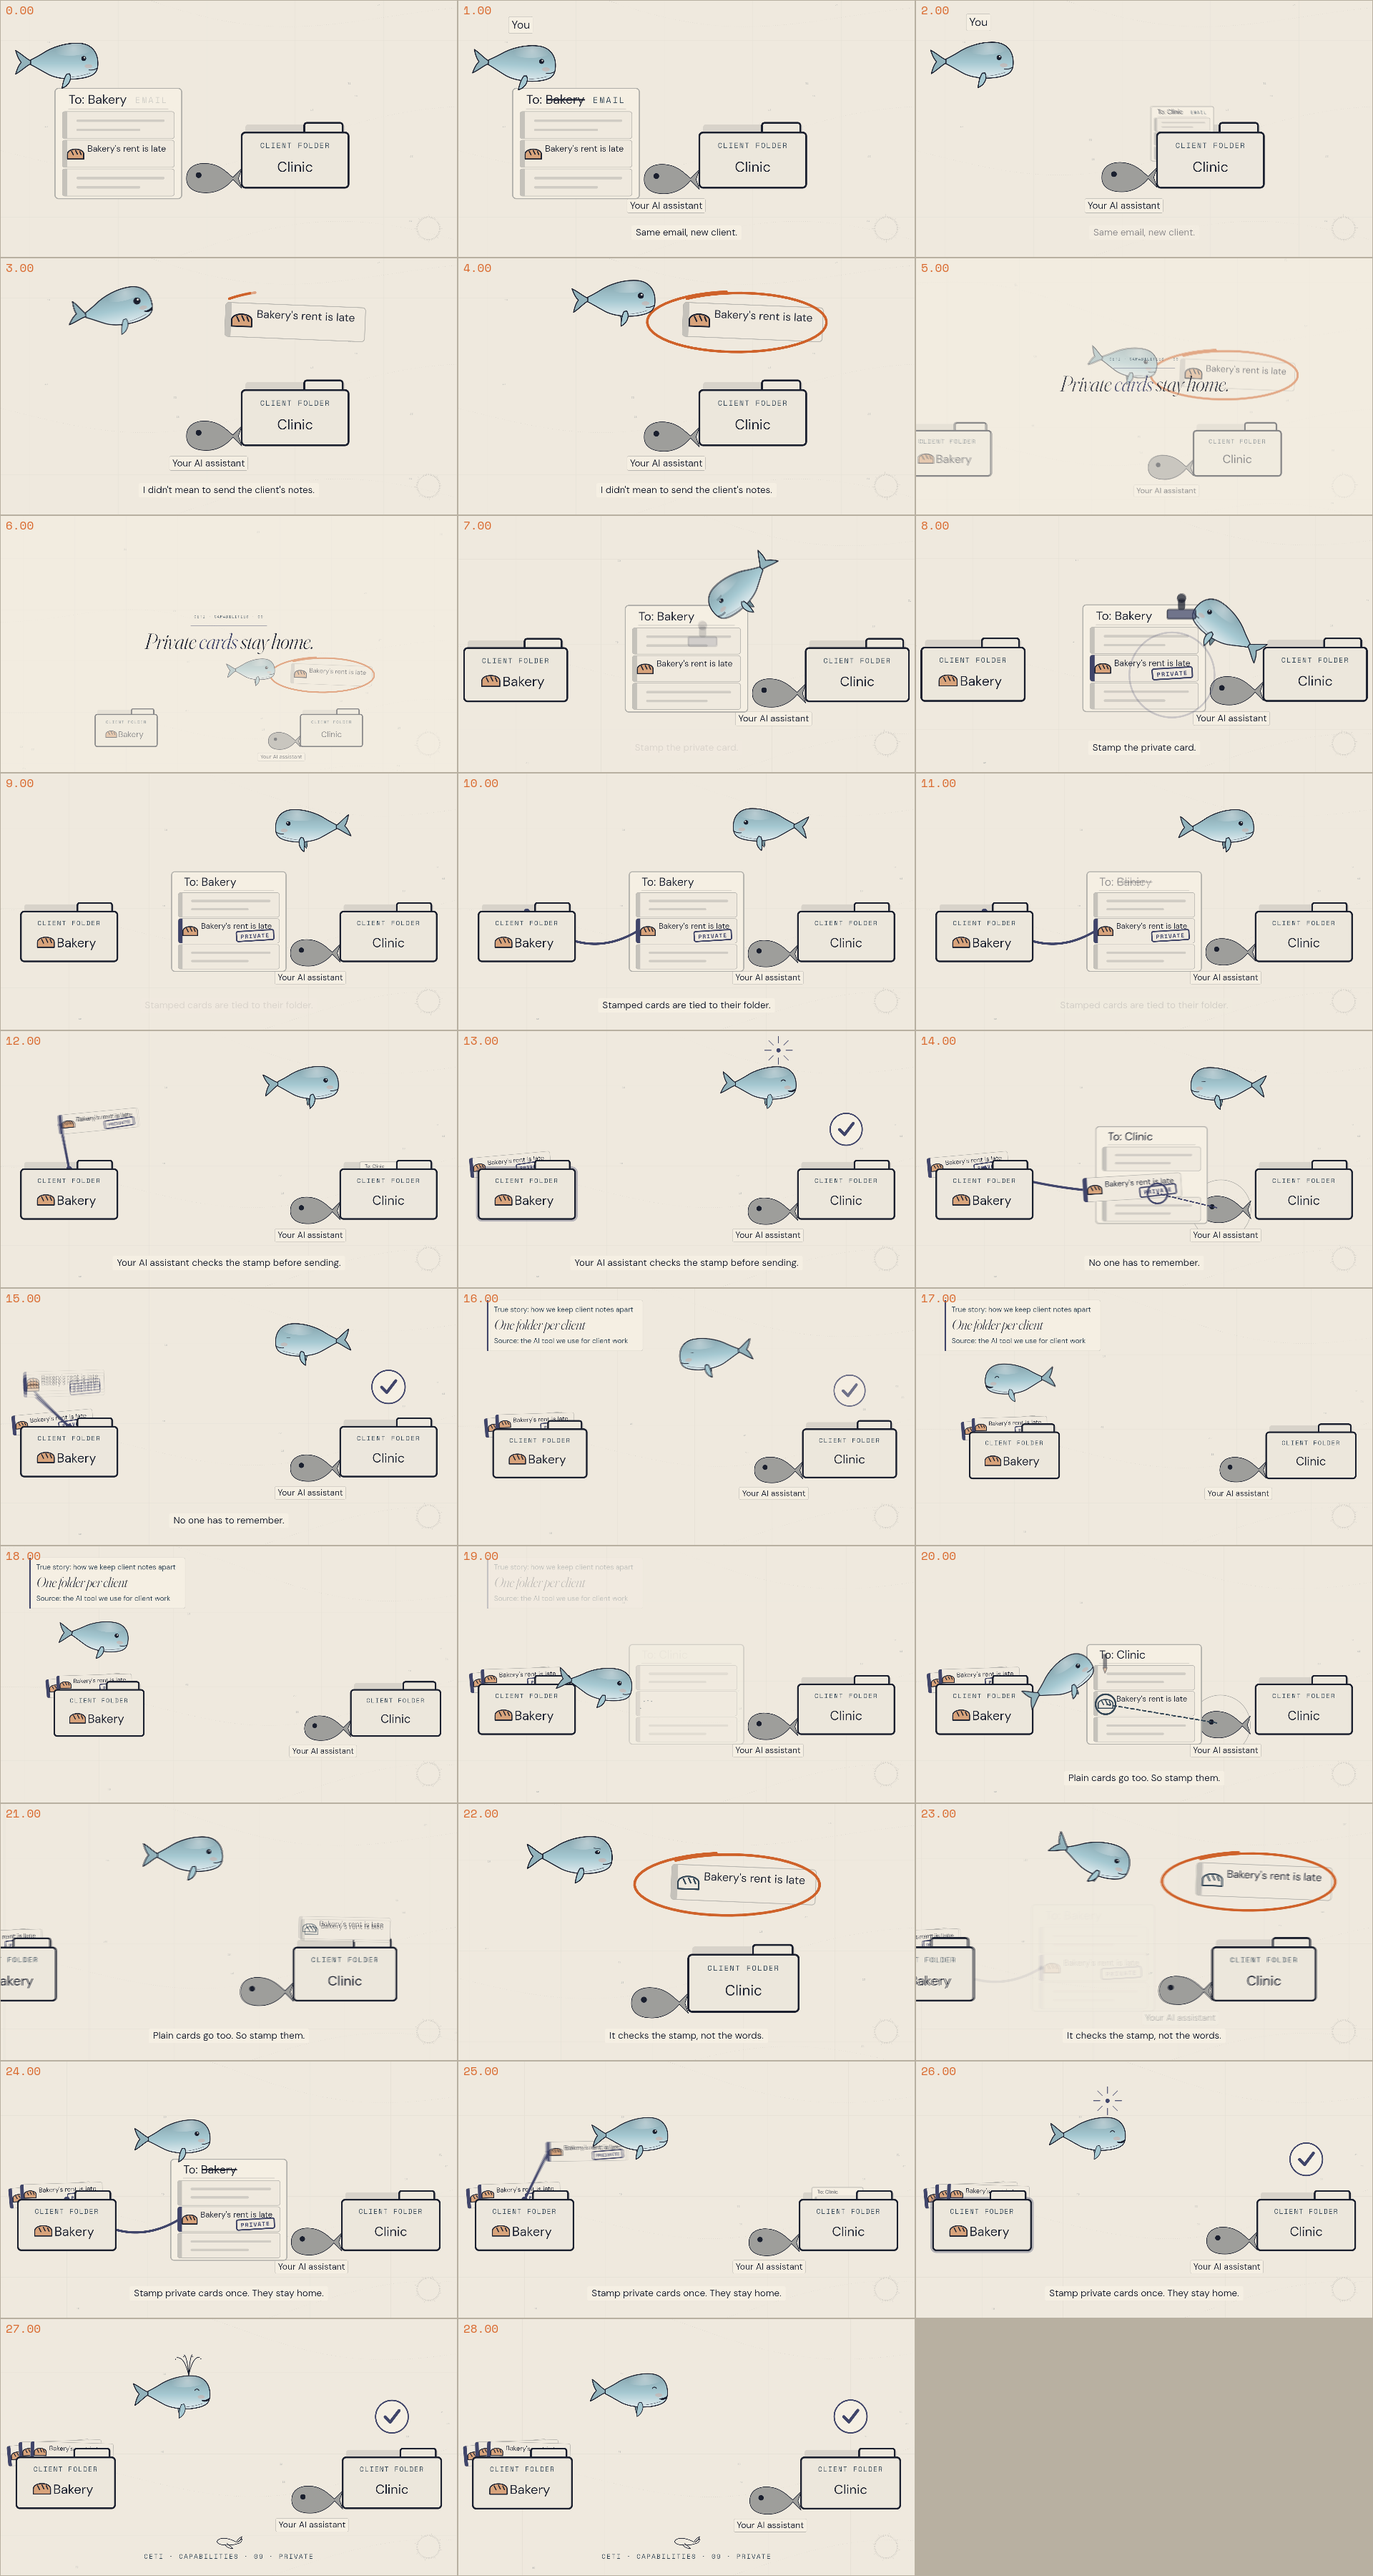
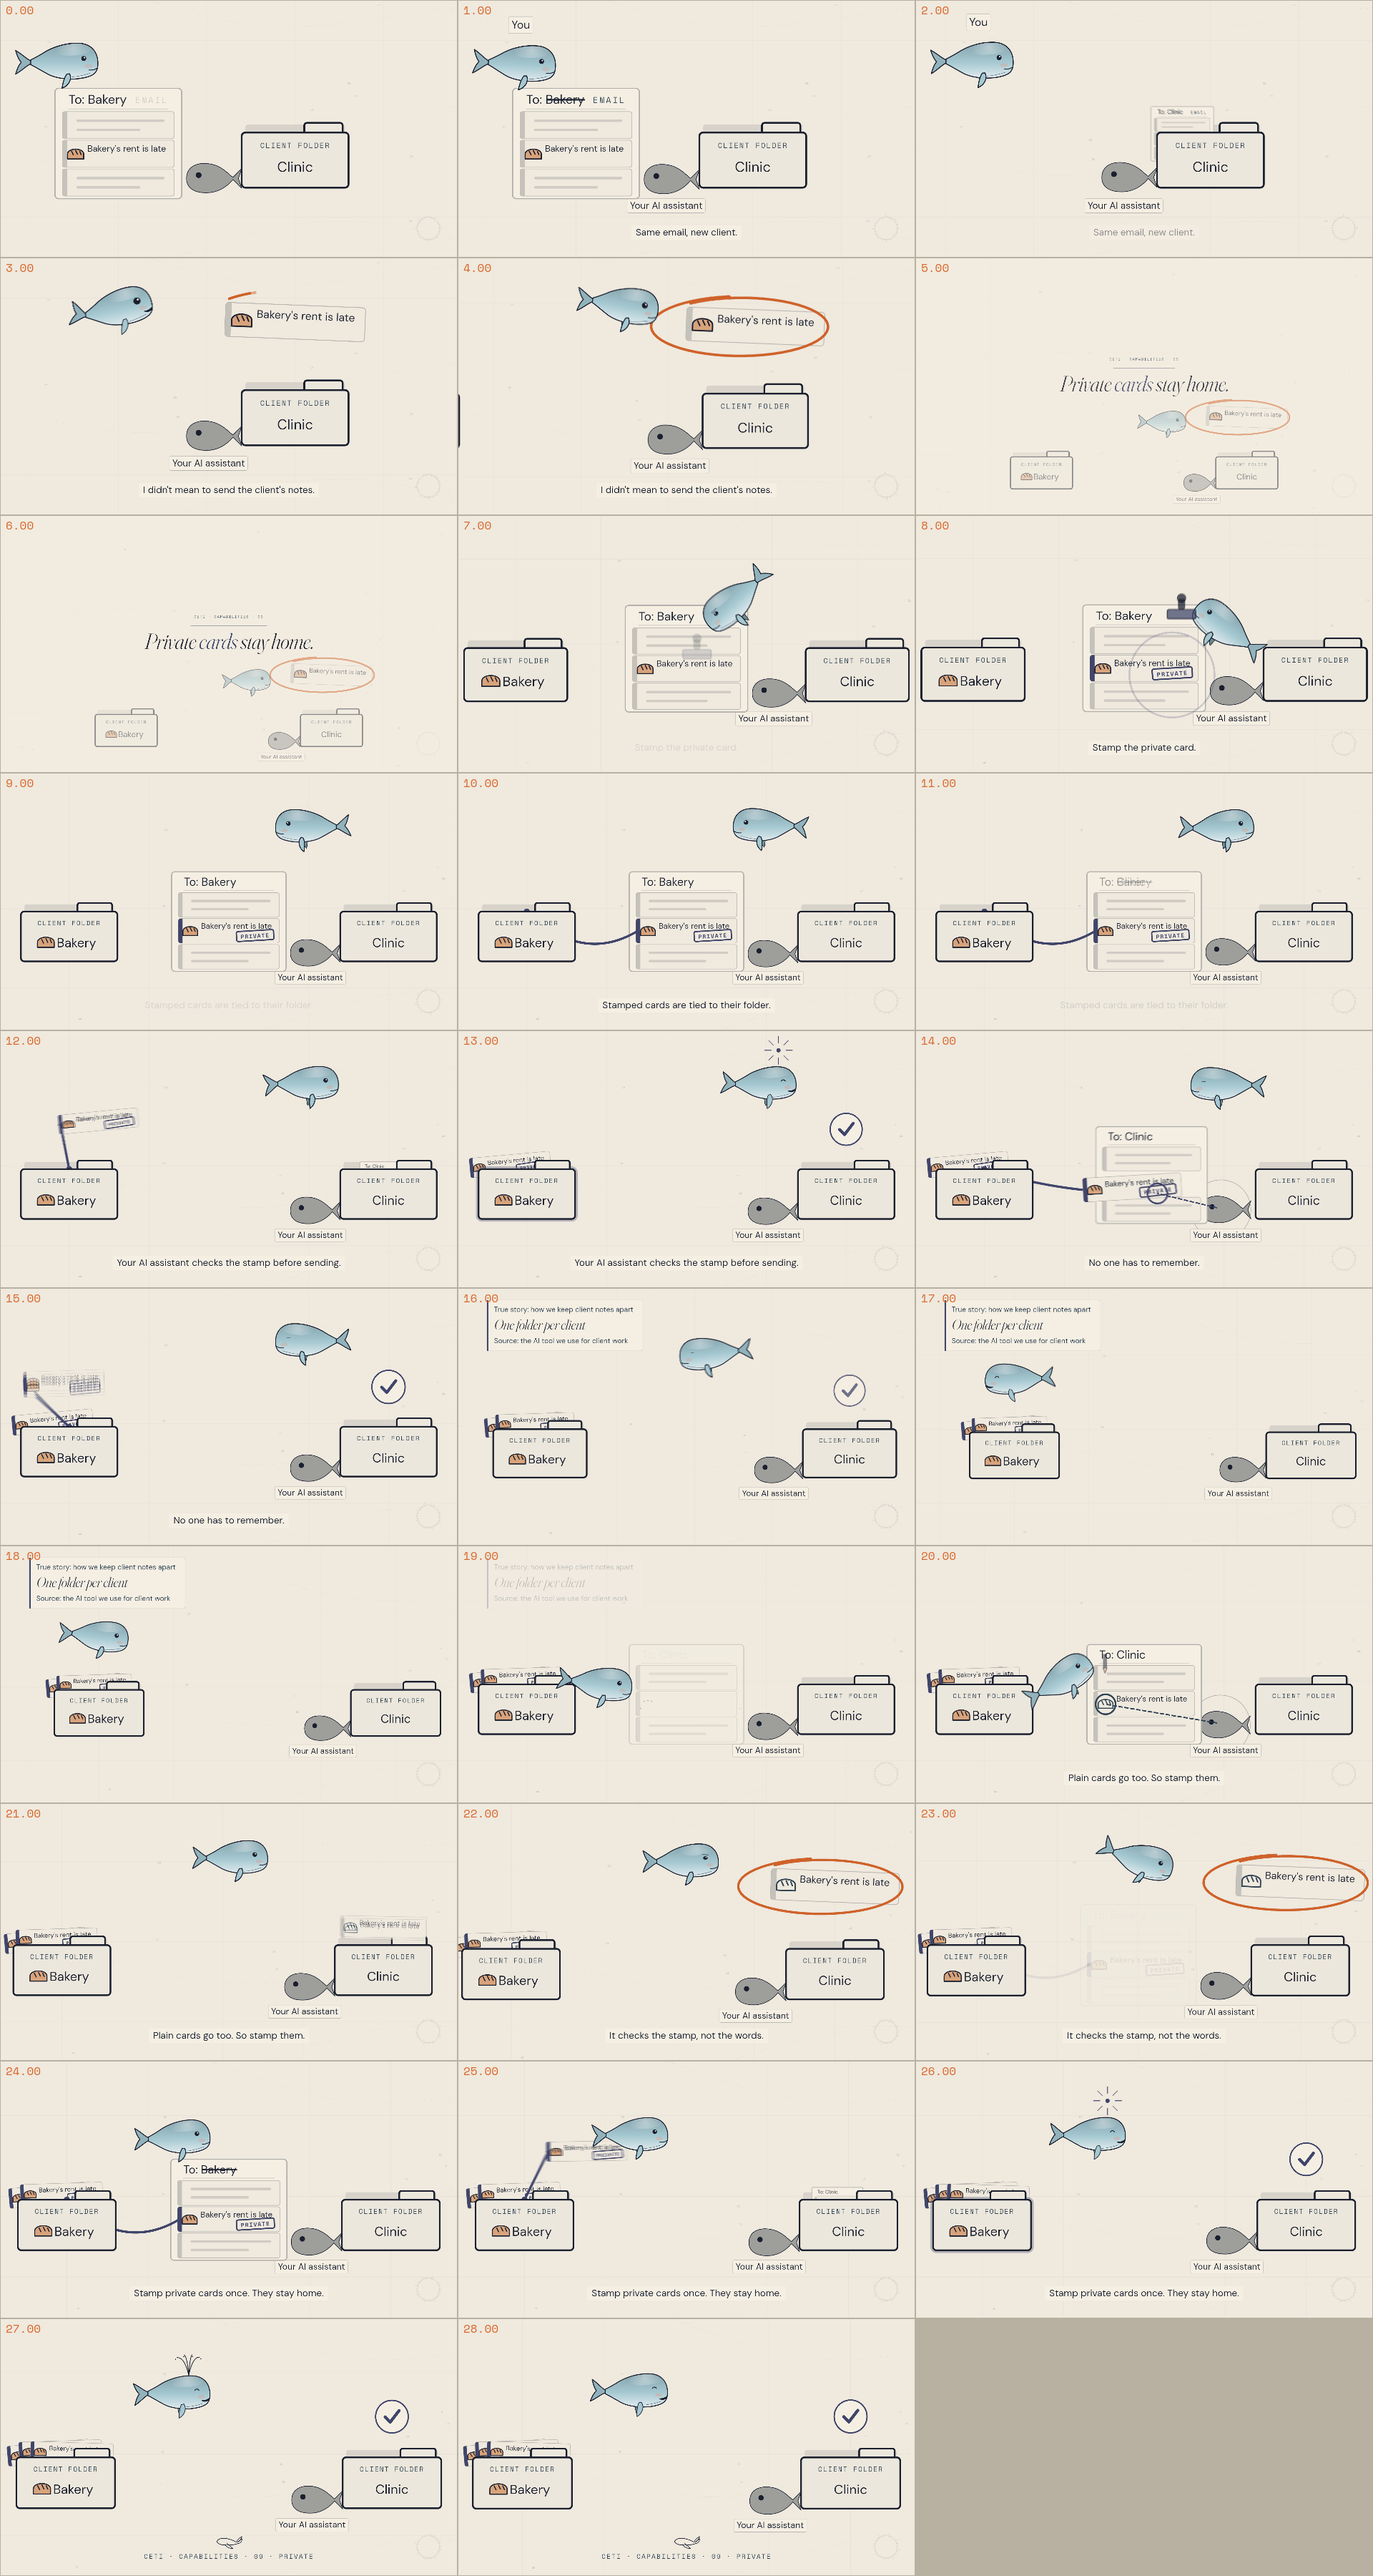
films/caps: fresh v6 (exact 57 wording), private v4
Claude-Session: https://claude.ai/code/session_01RCftyYG3bHQhecQi5siMfS

diff --git a/films/kh/caps/private/film.js b/films/kh/caps/private/film.js
@@ -63,7 +63,7 @@ const WS = 0.8, REACH = 118 * WS + 48;
 const IMP = { x: DESK.x + 78, y: DESK.y + CY[1] + 19 };
 const PERCH0 = [-150, -180], PERCHR = [235, -245], PRESS = [IMP.x + REACH, IMP.y - 49], HOVER = [PRESS[0], PRESS[1] - 62],
   SCRAWL = [DESK.x - 116 - REACH, DESK.y + CY[1] - 60], WATCH = [40, -250], BAKP = [-480, -160];
-const K = [[0, ...PERCH0], [2.55, ...PERCH0], [3.4, 120, -235], [4.5, 120, -235], [5.4, 120, -200], [6.85, 120, -200],
+const K = [[0, ...PERCH0], [2.55, ...PERCH0], [3.4, 120, -235], [3.9, 120, -235], [4.7, 100, -150], [6.85, 100, -150],
   [7.3, ...HOVER], [7.55, ...PRESS], [7.85, ...HOVER], [8.6, ...PERCHR], [15.6, ...PERCHR], [16.8, ...BAKP], [18.0, ...BAKP],
   [19.0, ...SCRAWL], [19.9, ...SCRAWL], [20.6, ...WATCH], [22.8, ...WATCH], [23.6, ...PERCH0], [DUR + 1, ...PERCH0]];
 function herm(P, t) { const n = P.length; if (t <= P[0][0]) return { x: P[0][1], y: P[0][2] }; if (t >= P[n - 1][0]) return { x: P[n - 1][1], y: P[n - 1][2] };
@@ -83,10 +83,10 @@ function nose(t) { const p = wworld(t), a = heading(t), f = facing(t); return { 
 
 // ---------- camera ----------
 const FELT = { x: 300, y: 0, z: 1.55 }, TITLE = { x: 0, y: -320, z: 0.9 }, MID = { x: 0, y: -20, z: 1.4 }, STAMP = { x: 0, y: 0, z: 1.5 },
-  CASE = { x: -60, y: -40, z: 1.3 }, LIM = { x: 330, y: -50, z: 1.6 }, PAY = { x: 0, y: -20, z: 1.42 };
+  CASE = { x: -60, y: -40, z: 1.3 }, LIM = { x: 40, y: -40, z: 1.42 }, PAY = { x: 0, y: -20, z: 1.42 };
 function cam(t) { let s = { ...FELT };
   const go = (a, b, T, e) => { const k = ramp(t, a, b, e); s = { x: lerp(s.x, T.x, k), y: lerp(s.y, T.y, k), z: lerp(s.z, T.z, k) }; };
-  go(4.5, 5.6, TITLE, EASE.rest); go(6.0, 7.1, STAMP, EASE.warm); go(8.1, 8.9, MID, EASE.warm); go(15.5, 16.6, CASE, EASE.rest);
+  go(3.9, 4.75, TITLE, EASE.rest); go(6.0, 7.1, STAMP, EASE.warm); go(8.1, 8.9, MID, EASE.warm); go(15.5, 16.6, CASE, EASE.rest);
   go(18.2, 19.0, MID, EASE.warm); go(20.6, 21.8, LIM, EASE.warm); go(22.7, 23.5, PAY, EASE.warm);
   return { x: s.x, y: s.y, z: s.z + 0.02 * ramp(t, 25.5, DUR, EASE.rest), ax: 960, ay: 540 }; }
 const wpos = t => wworld(t);
@@ -111,8 +111,7 @@ const READ = [
   cap('limit', 19.15, 21.3, 'Plain cards go too. So stamp them.'),
   cap('notthis', 21.35, 23.5, 'It checks the stamp, not the words.'),
   cap('belief', 23.55, T_LOCK - 0.05, 'Stamp private cards once. They stay home.'),
-  { id: 'ai1', kind: 'label', in: 0.1, out: 20.7, fi: 0.3, fo: 0.3, text: 'Your AI assistant' },
-  { id: 'ai2', kind: 'label', in: 22.9, out: DUR, fi: 0.3, fo: 0, text: 'Your AI assistant' },
+  { id: 'ai1', kind: 'label', in: 0.1, out: DUR, fi: 0.3, fo: 0, text: 'Your AI assistant' },
   { id: 'lockup', kind: 'label', in: T_LOCK, out: DUR, fi: 0.45, fo: 0, text: 'CETI · Capabilities · 09 · Private' },
   { id: 'boxB', kind: 'label', in: 0, out: DUR, fi: 0.01, fo: 0, text: 'Client folder Bakery' },
   { id: 'boxC', kind: 'label', in: 0, out: DUR, fi: 0.01, fo: 0, text: 'Client folder Clinic' },
@@ -167,7 +166,7 @@ function drawFrame(c, t) {
   { const nud = LET.reduce((m, L) => Math.max(m, win(t, L.send - 0.2, L.send + 0.3, 0.12, 0.25)), 0);
     let glow = 0; for (const sc of SCANS) glow = Math.max(glow, win(t, sc.t, sc.t + 0.55, 0.08, 0.2));
     c.save(); c.translate(X(POD.x - 16 * nud), Y(POD.y + Math.sin(t * 2.1) * 3)); c.scale(-1, 1); KH.drawPod(c, 0, 0, 0, PODS * z, PODCOL, { glow: glow * 0.9 }); c.restore();
-    const la = Math.max(RA(t, 'ai1'), RA(t, 'ai2')); if (la > 0) S.chip(c, 'Your AI assistant', X(POD.x), Y(POD.y + 82), { f: 'sans', size: Math.round(26 * z), col: INK, a: la, align: 'center', pad: 12, border: CARDEDGE }); }
+    const la = RA(t, 'ai1'); if (la > 0) S.chip(c, 'Your AI assistant', X(POD.x), Y(POD.y + 82), { f: 'sans', size: Math.round(26 * z), col: INK, a: la, align: 'center', pad: 12, border: CARDEDGE }); }
 
   // the emails (pages with three cards)
   for (const L of LET) { const lt = letter(L, t); if (lt.a <= 0.001) continue;

diff --git a/films/kh/caps/fresh/film.js b/films/kh/caps/fresh/film.js
@@ -102,7 +102,7 @@ const READ = [
   { ...cap('strike', 14.25, 17.2, 'No pointing? The complaint is crossed out.'), fi: 0.2 },
   lab('else', 17.3, 18.9, 'someone else'),
   { ...cap('fix', 17.22, 19.15, 'Someone else adds the missing page.'), fi: 0.2 },
-  { id: 'card', kind: 'card', card: true, in: 19.15, out: 22.85, fi: 0.08, fo: 0.1, text: '57 problems found. Each one pointed at.', src: SRC },
+  { id: 'card', kind: 'card', card: true, in: 19.15, out: 22.85, fi: 0.08, fo: 0.1, text: '57 complaints raised. Each one pointed at.', src: SRC },
   lab('cardl1', 19.15, 22.85, 'True story · our own review notes', { fi: 0.08, fo: 0.1, card: true, src: SRC }),
   { ...cap('limit', 22.95, 24.9, 'Checkers that think alike miss alike.'), fi: 0.2 },
   lab('order', 25.75, 27.3, 'pages out of order', { fi: 0.1 }),

diff --git a/films/kh/caps/private/NOTES.md b/films/kh/caps/private/NOTES.md
@@ -40,3 +40,13 @@ Sheets: `sheet-v1.png` (too small, mechanism a thin band), `sheet-v2.png` (×1.4
 - "Eyes shut" is small on a 640-px sheet; the not-watching beat reads mostly through the caption and the emails leaving with no whale near them.
 - The home stack in the Bakery box gets busy (4 fanned cards); fine in motion, cluttered in a still.
 - The clinic box half-shows at the right edge during the case push (16–18 s).
+
+## v4 (lay jury on v3: "who checks, me or the system?"; AGENT-BRIEF lessons 7–10). v3 kept as `film-v3.js`.
+- AI named as an actor: a helper pod labelled **"Your AI assistant"** (whole film) sends every email (a small push) and checks each card as it goes: a violet dashed line goes to the PRIVATE stamp (that card is held back), and a slate line goes to the plain card (that card is let through). Caption at 11.1: "Your AI assistant checks the stamp before sending." Not-this: "It checks the stamp, not the words."
+- The tie is visible: the thread is ≥ 6 px solid violet. As the email leaves, the card is first **tugged** out of the page (120 world units back, tilted), then pulled home 0.3 s later.
+- The Clinic's "+" is gone. Boxes are now client **folders** (folder tab, eyebrow "CLIENT FOLDER"). The card reads "True story: how we keep client notes apart" / **"One folder per client"** (60 px) / "Source: the AI tool we use for client work". It is up 15.6–19.1 s (3.5 s).
+- Title hinge: the veil is 0.5 and the camera pulls back to z 0.9 before the title arrives (3.9–4.75), so the circled card, the whale, the folders and the AI stay visible under the title.
+- 12–15 s, one at a time: the second automatic email (L4) is cut. Stamped cards land home at 12.78 (L2) and 15.0 (L3), 2.2 s apart. The limit card pops at 21.0.
+- Limit, phrased as "and also" (lesson 8): "Plain cards go too. So stamp them."
+- Camera: no shot crops a folder at rest (STAMP z 1.5, CASE z 1.3, LIM z 1.42).
+- DUR 28.5 s. Gate: GATES PASS (plain worst grade 5.2, intent PASS, jump 22.6 px/frame). Score −16.0 LUFS / −1.2 dBTP. Sheet: `sheet-v4.png`.
